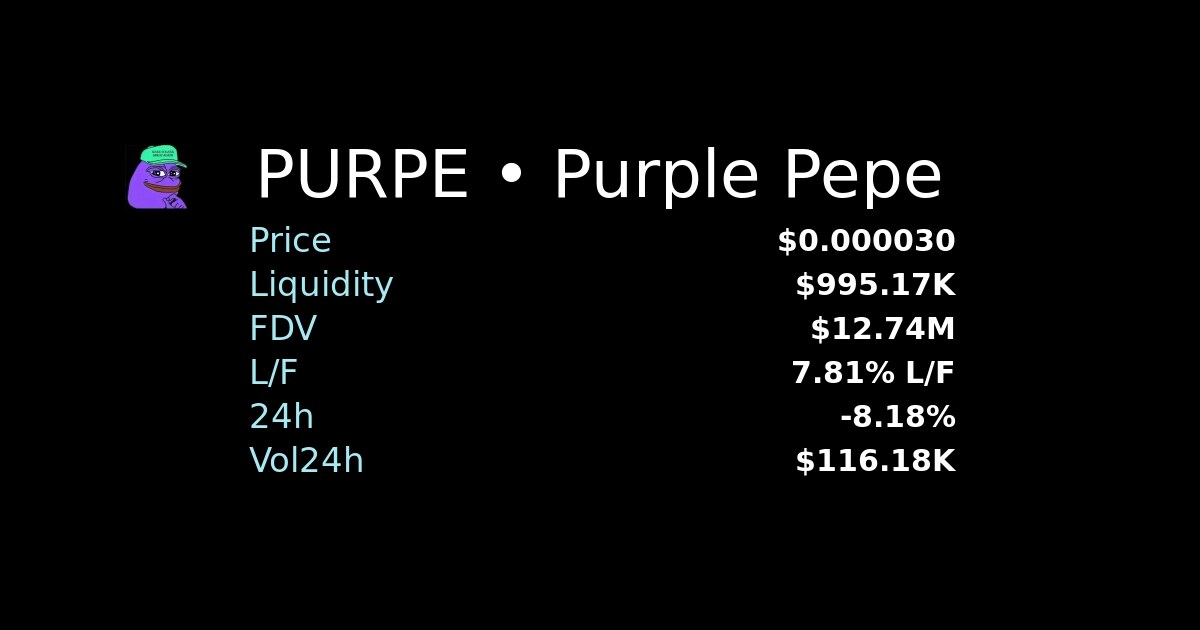
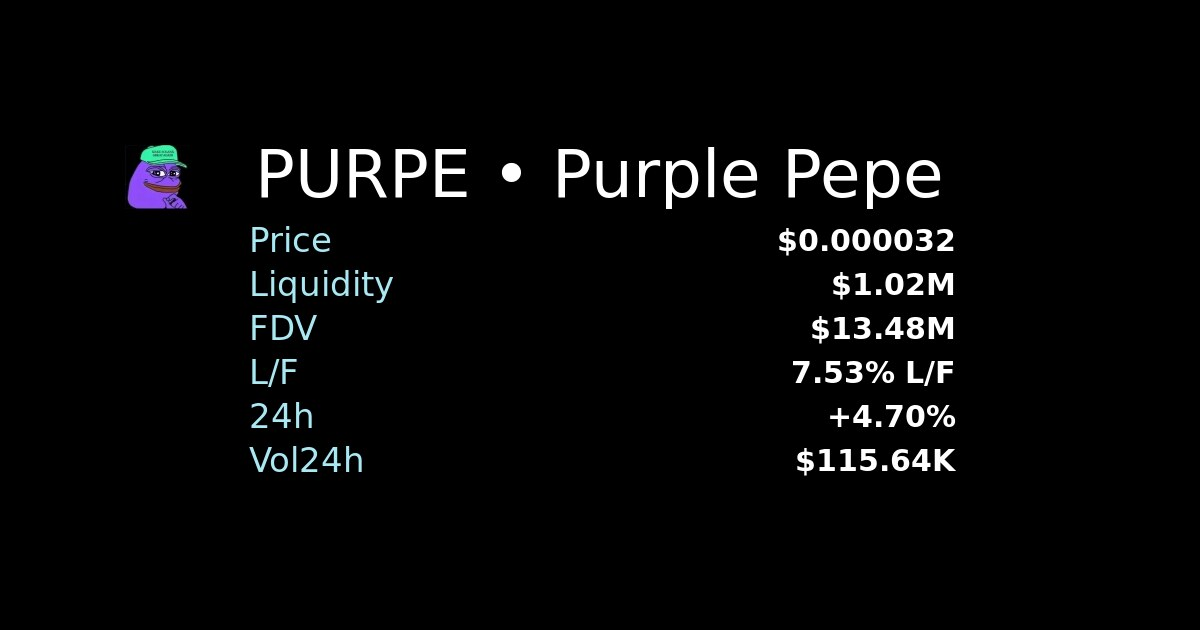
chore: update sitemap & token pages

diff --git a/token/HBoNJ5v8g71s2boRivrHnfSB5MVPLDHHyVjruPfhGkvL/index.html b/token/HBoNJ5v8g71s2boRivrHnfSB5MVPLDHHyVjruPfhGkvL/index.html
@@ -4,14 +4,14 @@
     <meta charset="utf-8" />
     <meta name="viewport" content="width=device-width,initial-scale=1" />
     <title>PURPE on Solana</title>
-    <meta name="description" content="Purple Pepe • Price: $0.000030 • Liquidity: $995.17K" />
+    <meta name="description" content="Purple Pepe • Price: $0.000032 • Liquidity: $1.02M" />
     <meta name="author" content="builders-toronto" />
     <meta name="keywords" content="solana, memecoin, bonk, wif, dog, inu, pepe, cat, meme, ponk, samo, purry, purr, kitty, meow, woof, frog, snek, toad, bob, dino, monke, monkey, ape, corgi, floki, elon" />
 
     <!-- OG -->
     <meta property="og:type" content="website" />
     <meta property="og:title" content="PURPE on Solana" />
-    <meta property="og:description" content="Purple Pepe • Price: $0.000030 • Liquidity: $995.17K" />
+    <meta property="og:description" content="Purple Pepe • Price: $0.000032 • Liquidity: $1.02M" />
     <meta property="og:url" content="https://fdv.lol/token/HBoNJ5v8g71s2boRivrHnfSB5MVPLDHHyVjruPfhGkvL" />
     <meta property="og:image" content="https://fdv.lol/token/HBoNJ5v8g71s2boRivrHnfSB5MVPLDHHyVjruPfhGkvL/og.jpg" />
     <meta property="og:image:width" content="1200" />
@@ -21,7 +21,7 @@
     <!-- Twitter -->
     <meta name="twitter:card" content="summary_large_image" />
     <meta name="twitter:title" content="PURPE on Solana" />
-    <meta name="twitter:description" content="Purple Pepe • Price: $0.000030 • Liquidity: $995.17K" />
+    <meta name="twitter:description" content="Purple Pepe • Price: $0.000032 • Liquidity: $1.02M" />
     <meta name="twitter:image" content="https://fdv.lol/token/HBoNJ5v8g71s2boRivrHnfSB5MVPLDHHyVjruPfhGkvL/og.jpg" />
 
     <link rel="icon" type="image/png" href="/src/assets/images/icons/fdv.lol.ico" />
@@ -35,7 +35,7 @@
       "@type": "WebSite",
       "name": "PURPE on Solana",
       "url": "https://fdv.lol/token/HBoNJ5v8g71s2boRivrHnfSB5MVPLDHHyVjruPfhGkvL",
-      "description": "Purple Pepe • Price: $0.000030 • Liquidity: $995.17K",
+      "description": "Purple Pepe • Price: $0.000032 • Liquidity: $1.02M",
       "keywords": [
         "solana",
         "memecoin",
